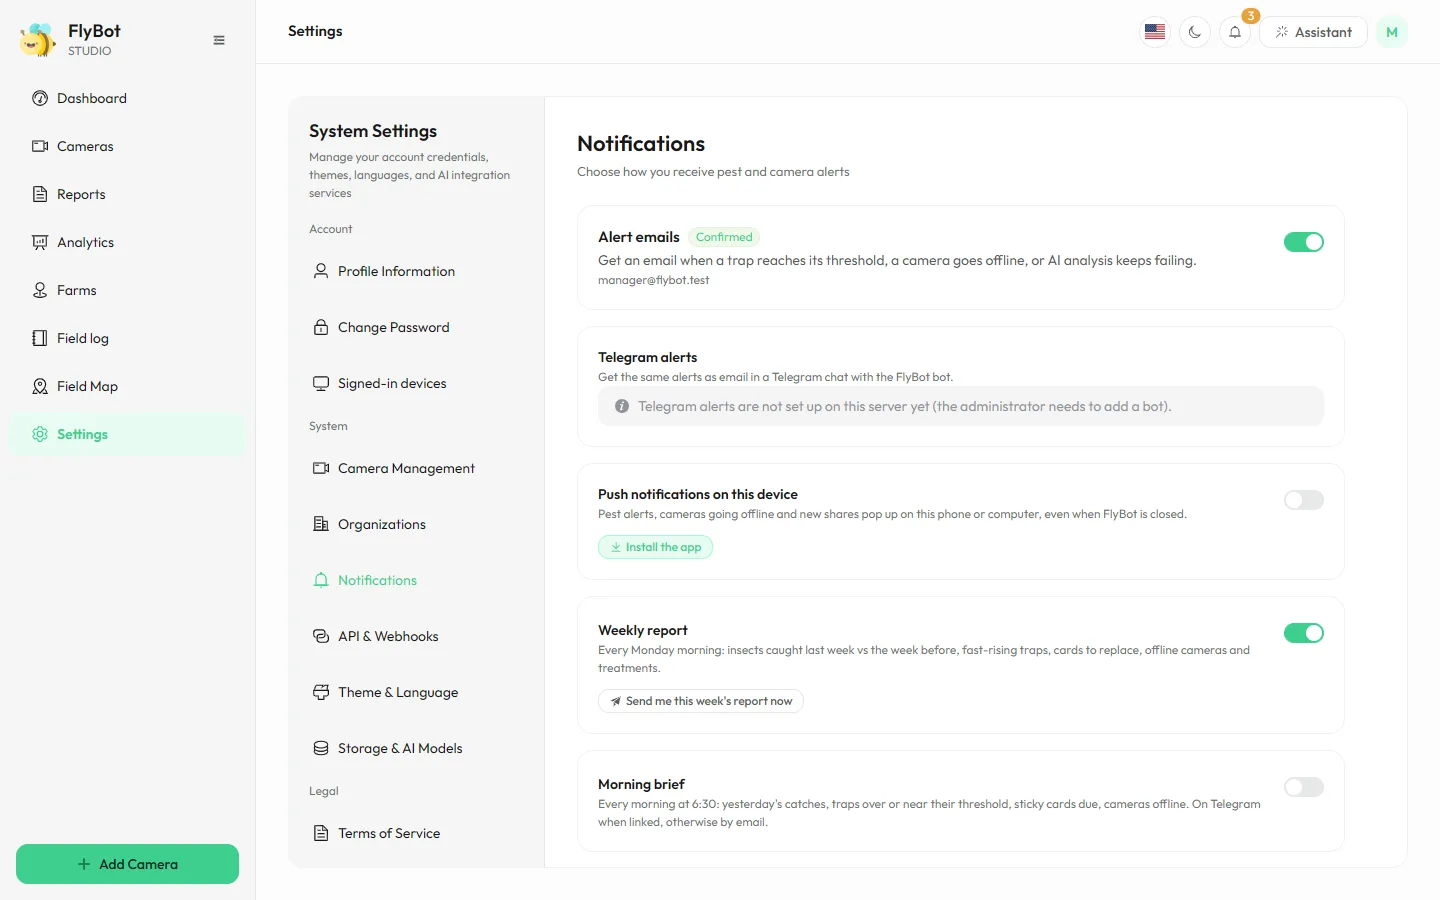
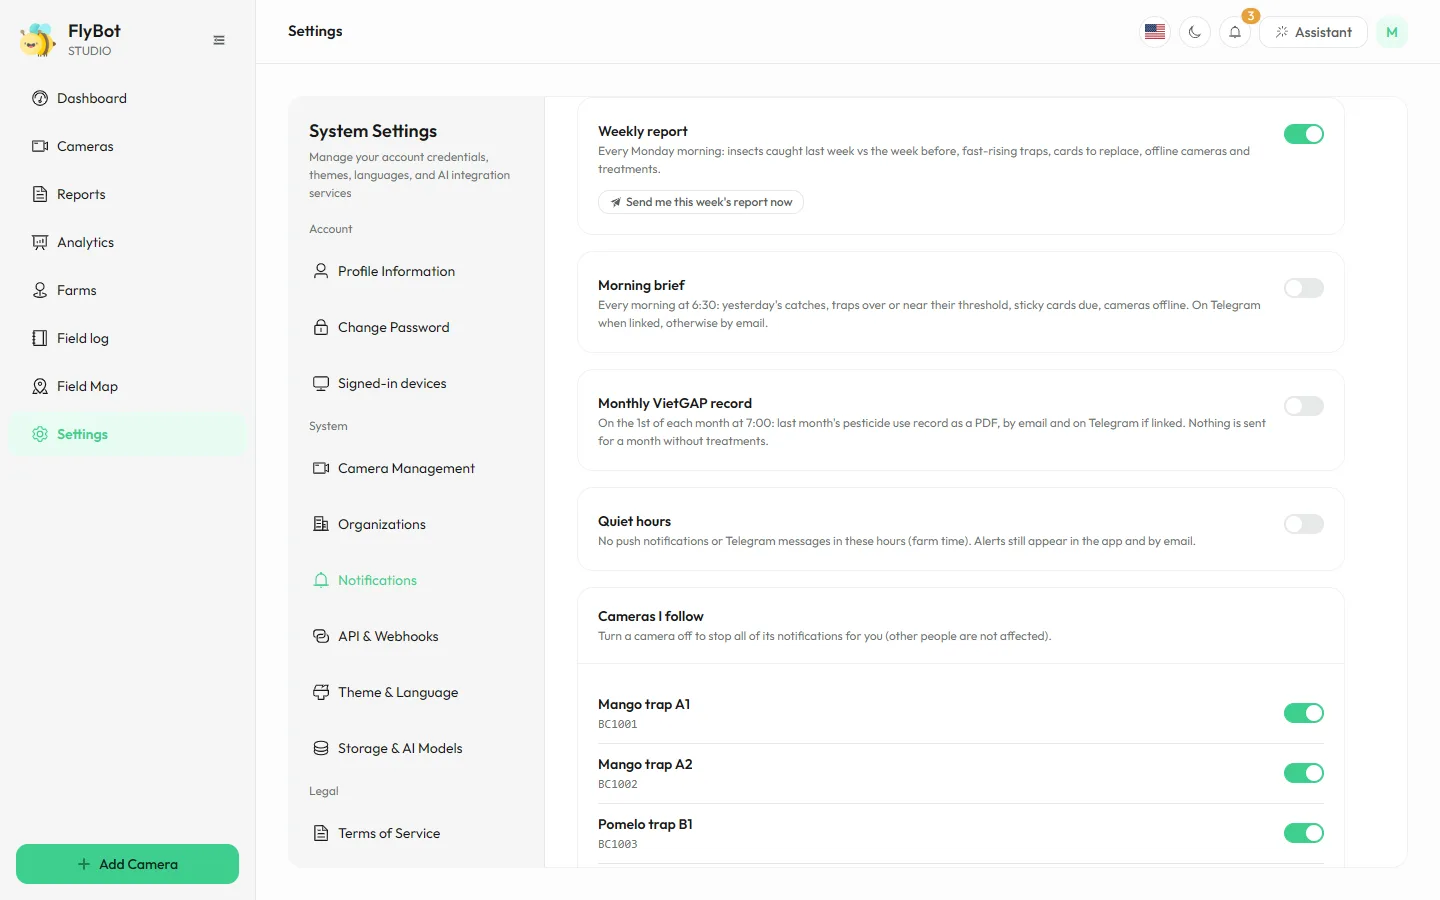
Guide: VietGAP screenshots, and the Field log called by its name
- Guide screenshots of the Field log (with "Email last month") and the
  notification settings (with the monthly VietGAP switch), both languages
- The guide line and CHANGELOG name the page "Nhật ký vườn" / "Field log"
- Demo data has last month's treatments, so the monthly record has rows
- shoot.mjs scrolls the notification settings to the inner card

diff --git a/tools/media/demo-server.js b/tools/media/demo-server.js
@@ -269,6 +269,19 @@ async function seedShowcase() {
         product: L('Thu gom trái rụng', 'Collect fallen fruit'), area: L('Lô bưởi B', 'Pomelo plot B'), operator: L('Chị Lan', 'Lan'), note: L('Chôn sâu 40 cm', 'Buried 40 cm deep'), createdBy: manager._id, createdByEmail: manager.email
     });
 
+    // Last month's treatments, for the monthly VietGAP record
+    const lastMonth = (day, hour) => { const d = new Date(); d.setDate(1); d.setMonth(d.getMonth() - 1); d.setDate(day); d.setHours(hour, 0, 0, 0); return d; };
+    await models.Treatment.create({
+        cameraSerials: ['BC1001', 'BC1002', 'BC1003'], type: 'spray', at: lastMonth(8, 6),
+        product: L('Radiant 60SC', 'Radiant 60SC'), activeIngredient: 'Spinetoram', dose: L('15 ml / 16 lít nước', '15 ml per 16 L water'), area: L('Lô xoài A và bưởi B (2 ha)', 'Mango A and pomelo B (2 ha)'),
+        operator: L('Anh Tư', 'Tu'), preHarvestDays: 7, note: L('Phun ướt đều tán, trời lặng gió', 'Even cover, no wind'), createdBy: manager._id, createdByEmail: manager.email
+    });
+    await models.Treatment.create({
+        cameraSerials: ['BC1002'], type: 'lure', at: lastMonth(21, 16),
+        product: L('Bẫy Vizubon-D', 'Vizubon-D lure'), activeIngredient: 'Methyl eugenol', dose: L('2 ml mỗi bẫy', '2 ml per trap'), area: L('Lô xoài A', 'Mango plot A'),
+        operator: L('Chị Lan', 'Lan'), preHarvestDays: 0, createdBy: manager._id, createdByEmail: manager.email
+    });
+
     // Organization with the technician as a member
     await req('src/services/orgService').migrateToOrganizations();
     const org = await models.Organization.findOne();

diff --git a/CHANGELOG.md b/CHANGELOG.md
@@ -16,8 +16,8 @@
 ### Reports
 - "Custom dashboards" renamed **Reports**: 7 days to 12 months or custom ranges with comparison to the period before, new blocks, PDF export, share expiry, and scheduled weekly or monthly sending by email and Telegram.
 
-### Logbook (VietGAP)
-- **Monthly VietGAP record**: turn it on under Settings, Notifications to get last month's pesticide use record as a PDF on the 1st at 07:00, by email and on Telegram. **Email last month** in the Logbook sends it right away.
+### Field log (VietGAP)
+- **Monthly VietGAP record**: turn it on under Settings, Notifications to get last month's pesticide use record as a PDF on the 1st at 07:00, by email and on Telegram. **Email last month** in the Field log sends it right away.
 
 ### Works without signal
 - The installed app opens in the field without a connection and shows the last data seen, with the time it was saved. Actions that need the network say so instead of failing silently. Saved data is cleared on sign-out.
